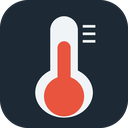
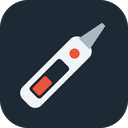
アイコンを斜めの電子体温計に変更
Claude-Session: https://claude.ai/code/session_01J83JN8U1jiL5Q2UTnzCAkV

Changed region(s): [[0.1562, 0.125, 0.8438, 0.9375]]

diff --git a/tools/make-icons.py b/tools/make-icons.py
@@ -1,22 +1,22 @@
-# 拡張のアイコン(体温計)を作る。python tools/make-icons.py で icons/ に 16/32/48/128 を書き出す
+# 拡張のアイコン(斜めの電子体温計)を作る。python tools/make-icons.py で icons/ に 16/32/48/128 を書き出す
 from PIL import Image, ImageDraw
 S = 1024  # 大きく描いて縮める
 def draw():
-    im = Image.new("RGBA", (S, S), (0, 0, 0, 0))
-    d = ImageDraw.Draw(im)
-    d.rounded_rectangle([0, 0, S - 1, S - 1], radius=int(S * 0.22), fill=(29, 42, 53, 255))
-    white, red = (240, 244, 247, 255), (233, 84, 62, 255)
-    cx = S // 2
-    # 管(外枠): 白
-    d.rounded_rectangle([cx - 110, 130, cx + 110, 700], radius=110, fill=white)
-    d.ellipse([cx - 230, 540, cx + 230, 1000 - 60], fill=white)
-    # 水銀: 赤(球 + 柱)
-    d.ellipse([cx - 160, 610, cx + 160, 930], fill=red)
-    d.rounded_rectangle([cx - 52, 330, cx + 52, 700], radius=52, fill=red)
-    # 目盛り
-    for y in (210, 270, 330):
-        d.rectangle([cx + 150, y - 10, cx + 250, y + 10], fill=white)
-    return im
+    bg = Image.new("RGBA", (S, S), (0, 0, 0, 0))
+    ImageDraw.Draw(bg).rounded_rectangle([0, 0, S - 1, S - 1], radius=int(S * 0.22), fill=(29, 42, 53, 255))
+    # 体温計を横向きに描いて、斜めに回す
+    L = Image.new("RGBA", (S, S), (0, 0, 0, 0))
+    d = ImageDraw.Draw(L)
+    white, red, dark, metal = (240, 244, 247, 255), (233, 84, 62, 255), (29, 42, 53, 255), (170, 182, 192, 255)
+    cy = S // 2
+    d.rounded_rectangle([80, cy - 105, 760, cy + 105], radius=70, fill=white)          # 本体
+    d.polygon([(740, cy - 62), (960, cy - 18), (960, cy + 18), (740, cy + 62)], fill=metal)  # 先(細い金属)
+    d.rounded_rectangle([170, cy - 62, 520, cy + 62], radius=24, fill=dark)             # 表示窓
+    d.rounded_rectangle([190, cy - 42, 340, cy + 42], radius=14, fill=red)              # 表示(赤)
+    d.ellipse([590, cy - 40, 670, cy + 40], fill=red)                                   # ボタン
+    L = L.rotate(45, resample=Image.BICUBIC, center=(S // 2, S // 2))
+    bg.alpha_composite(L)
+    return bg
 big = draw()
 for n in (16, 32, 48, 128):
     big.resize((n, n), Image.LANCZOS).save(f"icons/icon{n}.png")
